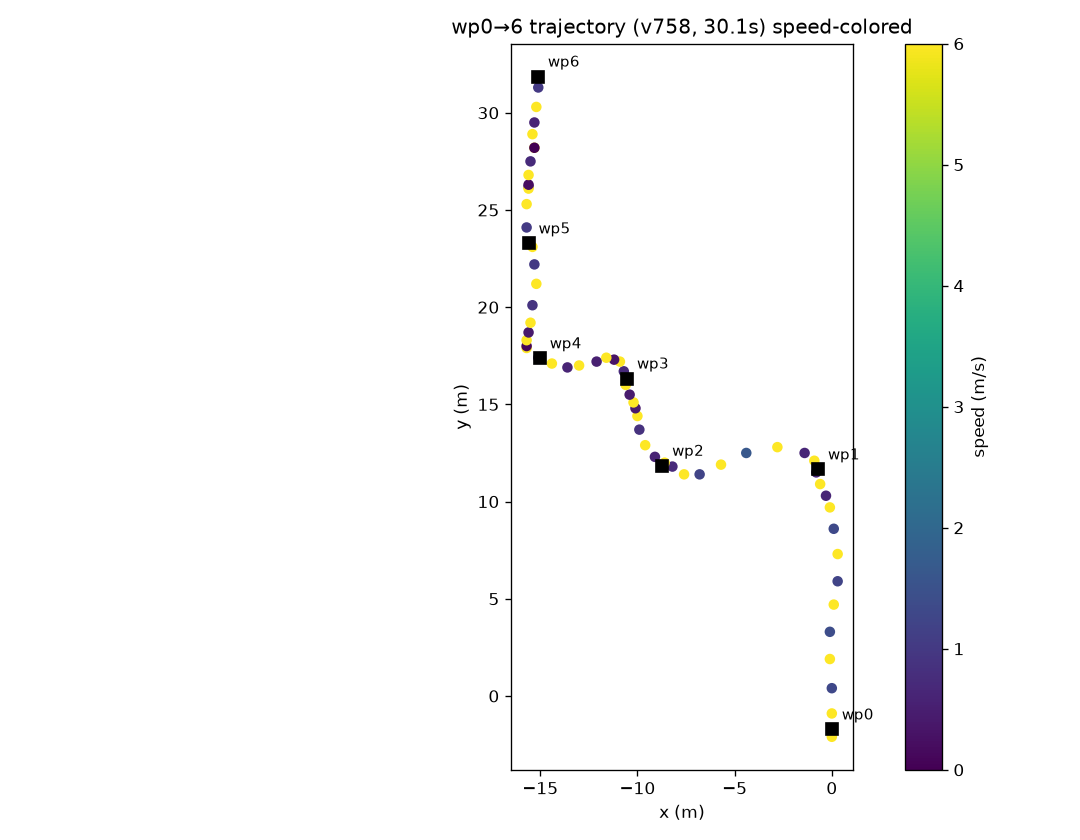
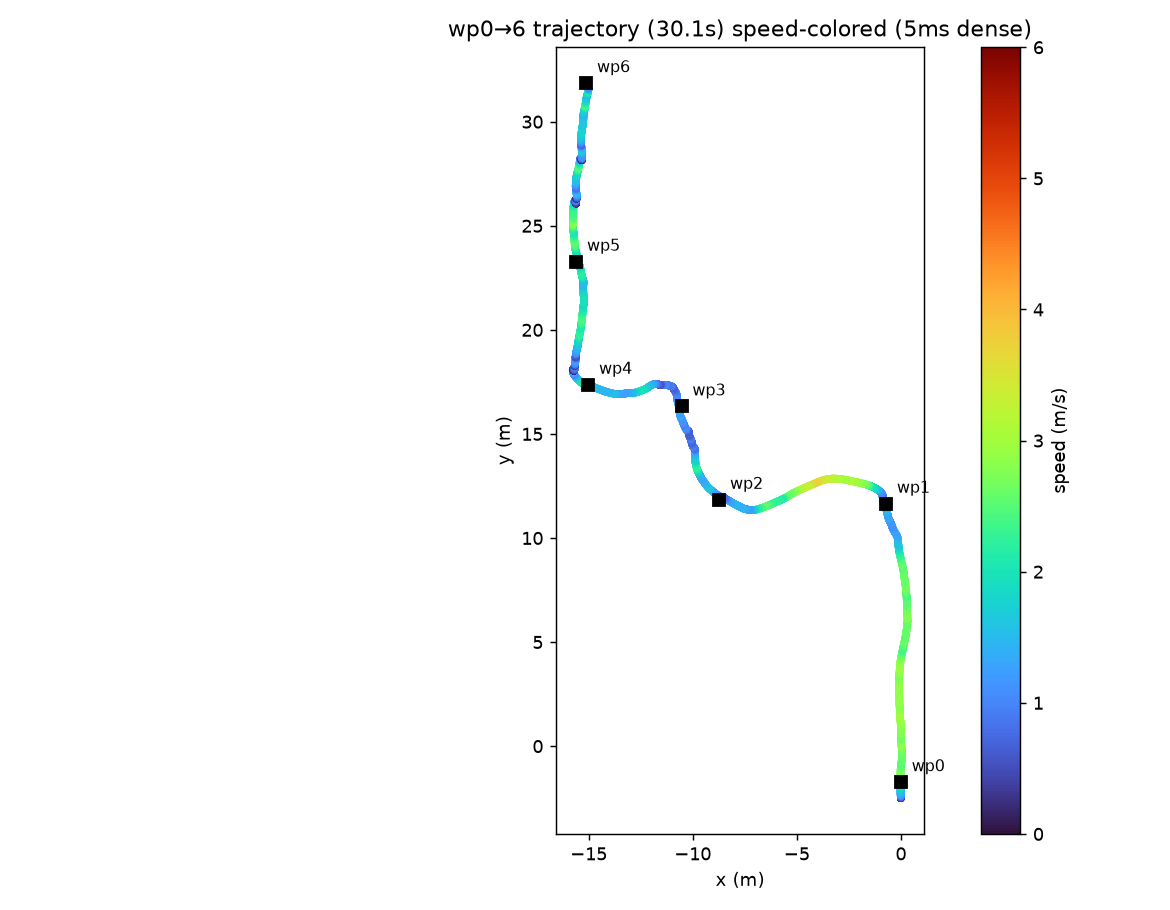
fix(plot): wp0-6轨迹图改用5ms密集轨迹+真实地面速度着色(原0.5s/0.1m量化坐标导致颜色失真); 新增S10_TRAJ_DENSE密集记录开关

diff --git a/src/S10_sdk_deploy/scripts/cruise_vmc_noros.py b/src/S10_sdk_deploy/scripts/cruise_vmc_noros.py
@@ -1119,6 +1119,10 @@ def main():
         d.ctrl[:] = tau
         mujoco.mj_step(m, d)
         t += DT
+        # v782: 密集轨迹记录（S10_TRAJ_DENSE=1 时每个控制周期 5ms 记录，
+        # 供速度着色轨迹图；默认关保持原行为）
+        if os.environ.get('S10_TRAJ_DENSE', '0') == '1':
+            traj.append([t, body_pos[0], body_pos[1], float(d.cvel[1][3])])
         if _viewer is not None:
             if not _viewer.is_running():
                 print('[VMC] viewer 已关闭，结束', flush=True)
